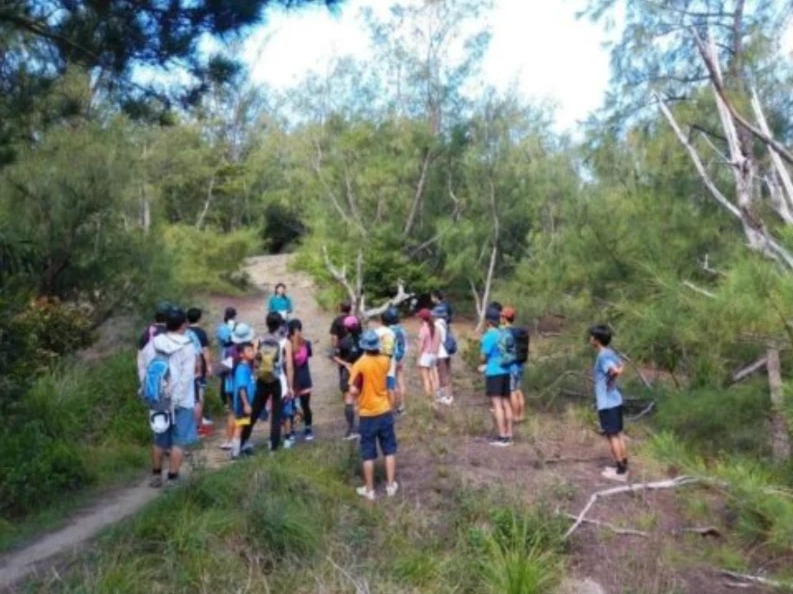
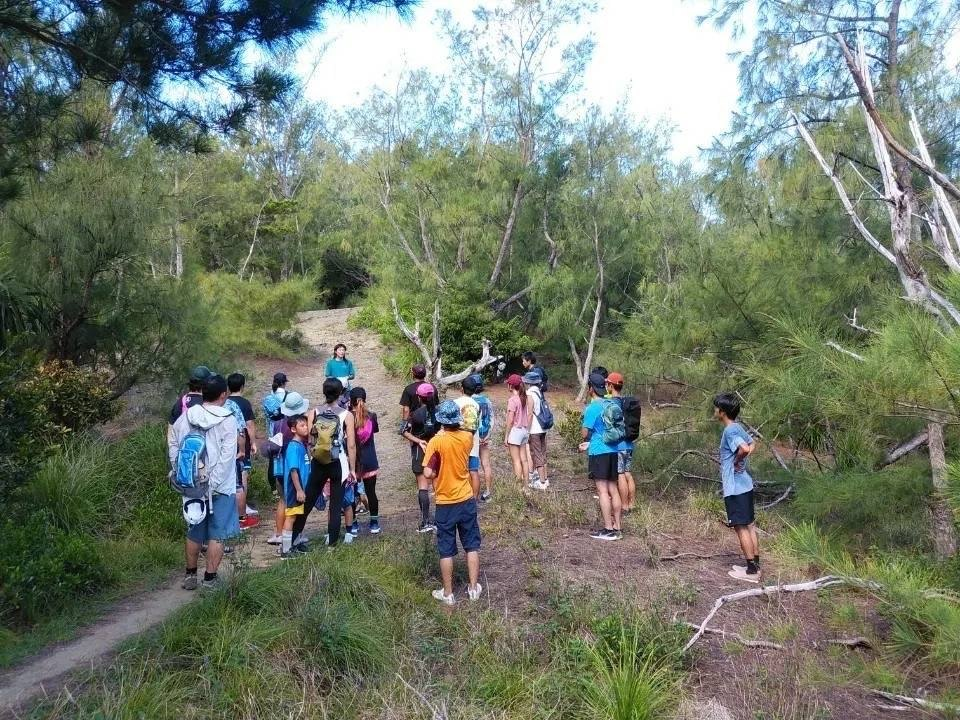
ネイチャースポーツの写真を元画像に差し替え、稜線の写真を追加
Claude-Session: https://claude.ai/code/session_01ELNmpxPZqerKuBQ7PWGWjx

diff --git a/index.html b/index.html
@@ -642,7 +642,7 @@ body{--scroll-y:0}
 <a class="activity-more" href="chisan.html">詳しく見る <span aria-hidden="true">→</span></a>
 </article>
 <article class="reveal activity-card card motion-reveal has-link" data-activity-index="06" style="display: flex; flex-direction: column; gap: 18px">
-<div class="card-photo" style="height: 360px; border-radius: 4px; overflow: hidden"><img alt="山道で行ったトレイルランニング講習会" class="zoom" src="images/sports-trail.jpg" style="width: 100%; height: 100%; object-fit: cover; display: block"/></div>
+<div class="card-photo" style="height: 360px; border-radius: 4px; overflow: hidden"><img alt="父島の稜線を駆けるトレイルランナー" class="zoom" src="images/sports-ridge.jpg" style="width: 100%; height: 100%; object-fit: cover; object-position: center 60%; display: block"/></div>
 <span class="en" style="font-size: 13px; color: #1A7A43; font-weight: 800; letter-spacing: 0.2em">06 — NATURE SPORTS</span>
 <h3 style="margin: 0; font-size: 22px; line-height: 1.5">ネイチャースポーツ</h3>
 <p style="margin: 0; font-size: 14px; line-height: 1.95">2022年に発足した部門。父島で地元団体と連携したトレイルランニングの体験会・講習会や、走った人の手で行うクリーンナップ活動に取り組んでいます。</p>

diff --git a/sports.html b/sports.html
@@ -94,6 +94,9 @@ footer a{color:var(--paper)}
 .sp-table tbody tr:last-child td,.sp-table tbody tr:last-child th{border-bottom:0}
 .table-note{display:none;font-size:12px;color:var(--muted);margin:8px 0 0}
 .maker{color:#C98A12}
+.hero-photo{margin:48px 0 0;border-radius:8px;overflow:hidden}
+.hero-photo img{display:block;width:100%;aspect-ratio:21/9;object-fit:cover;object-position:center 58%}
+@media(max-width:768px){.hero-photo{margin-top:32px}.hero-photo img{aspect-ratio:4/3}}
 .photo.tall img{aspect-ratio:3/4}
 .product .photo{border-radius:0}
 .brand-logo{display:block;width:120px;height:auto;margin:0 0 24px}
@@ -163,6 +166,7 @@ footer a{color:var(--paper)}
 </div>
 <h1 class="min">ネイチャースポーツ</h1>
 <p class="lead">2022年、ネイチャースポーツ部門がBOISSの活動に加わりました。小笠原の豊かな自然の中で、ネイチャースポーツを通して遊ぶことで自然の大切さに気付き、自然との繋がりや理解を深めながら環境保全活動に取り組んでいきます。</p>
+<figure class="hero-photo"><img alt="父島の稜線を駆けるトレイルランナー" src="images/sports-ridge.jpg"/></figure>
 </div>
 </section>
 
